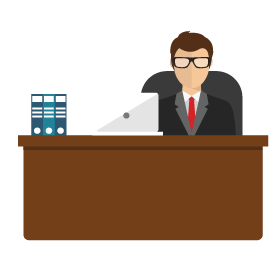
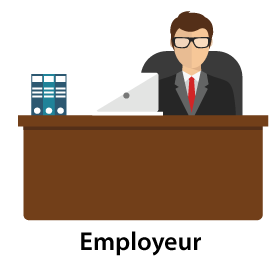
[fix:jeu8] Text correction and person's name in sprite added with reposition

Changed region(s): [[0.0571, 0.0308, 0.9714, 0.5846], [0.0571, 0.8308, 0.9429, 0.9846]]

diff --git a/src/games/8/components/game/objects/Response/ResponseFactory.js b/src/games/8/components/game/objects/Response/ResponseFactory.js
@@ -3,7 +3,6 @@ import Response from "./Response";
 import Phaser from "phaser";
 
 export default class ResponseFactory extends GameFactory {
-
     coordonates = [];
 
     constructor(game, items) {
@@ -16,12 +15,12 @@ export default class ResponseFactory extends GameFactory {
 
         for (let item in items) {
             itemsNumber++;
-        };
+        }
 
         this.number = itemsNumber;
 
         let xValue = (width / itemsNumber)/2;
-        let y = this.game.world.centerY + 100 * this.game.SCALE;
+        let y = this.game.world.centerY + (this.game.world.centerY / 3.2 * this.game.SCALE);
 
         for (let i = 0; i < itemsNumber; i++) {
             let x = i * (2 * xValue) + xValue;
@@ -43,7 +42,5 @@ export default class ResponseFactory extends GameFactory {
             );
             count++;
         }
-
     }
-
 }

diff --git a/src/games/8/components/game/states/Play.js b/src/games/8/components/game/states/Play.js
@@ -89,7 +89,7 @@ class ScreenOne {
 
     start() {
         let text = `Paul est salarié depuis 3 ans dans l’entreprise Bâtiplus. Actuellement, il travaille sur un chantier 
-où dix maisons individuelles sont en cours de construction. Il manutentionne des par paings afin 
+où dix maisons individuelles sont en cours de construction. Il manutentionne des parpaings afin 
 d’approvisionner le poste de travail d’un collègue. Soudain, il glisse et se coupe profondément à la cuisse. 
 Que faire ?`;
         this.title = this.game.add.text(this.game.world.centerX, 25 * this.game.SCALE, text, {font: 'Arial', fontSize: 25 * this.game.SCALE, fill: '#000000', align:'center'});

diff --git a/src/games/8/components/game/states/Rules.js b/src/games/8/components/game/states/Rules.js
@@ -11,7 +11,7 @@ export default class Rules extends State {
             {font: 'Arial', fill: '#272727', fontSize: this.game.uiScale(21)});
 
         this.game.add.text(this.game.uiScale(80), this.game.uiScale(160),
-            "Il faut aider Paul dans les différentes étapes qui surviennent lors d'un accident sur le lieu de travail",
+            "Il faut aider Paul dans les différentes étapes qui surviennent lors d'un accident sur le lieu de travail.",
             {
                 font: 'Arial', fill: '#272727', fontSize: this.game.uiScale(16),
                 wordWrap: true, wordWrapWidth: this.game.world.width - this.game.uiScale(160)

diff --git a/src/games/8/components/game/modals/StartInfoModal.js b/src/games/8/components/game/modals/StartInfoModal.js
@@ -40,7 +40,7 @@ export default class StartInfoModal extends Modal {
                     type: "text",
                     x: 20,
                     y: 85,
-                    text: "Aider Paul à travers le différentes étapes qui peuvent arriver lors d'un accident. Pour cela, il faut choisir les bonnes actions et les bonnes étapes.",
+                    text: "Aider Paul à travers les différentes étapes qui peuvent arriver lors d'un accident. Pour cela, il faut choisir les bonnes actions et les bonnes étapes.",
                     style: {
                         fill: "#5F4D21",
                         fontFamily: "Arial",
